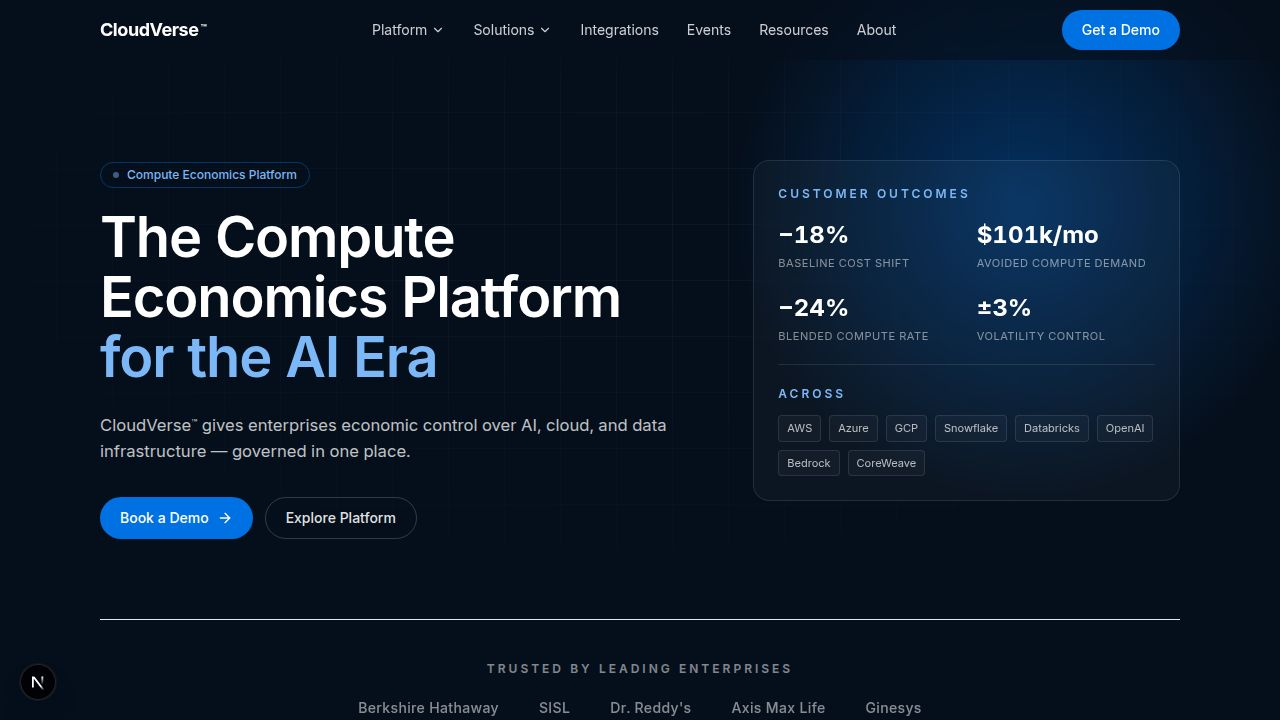
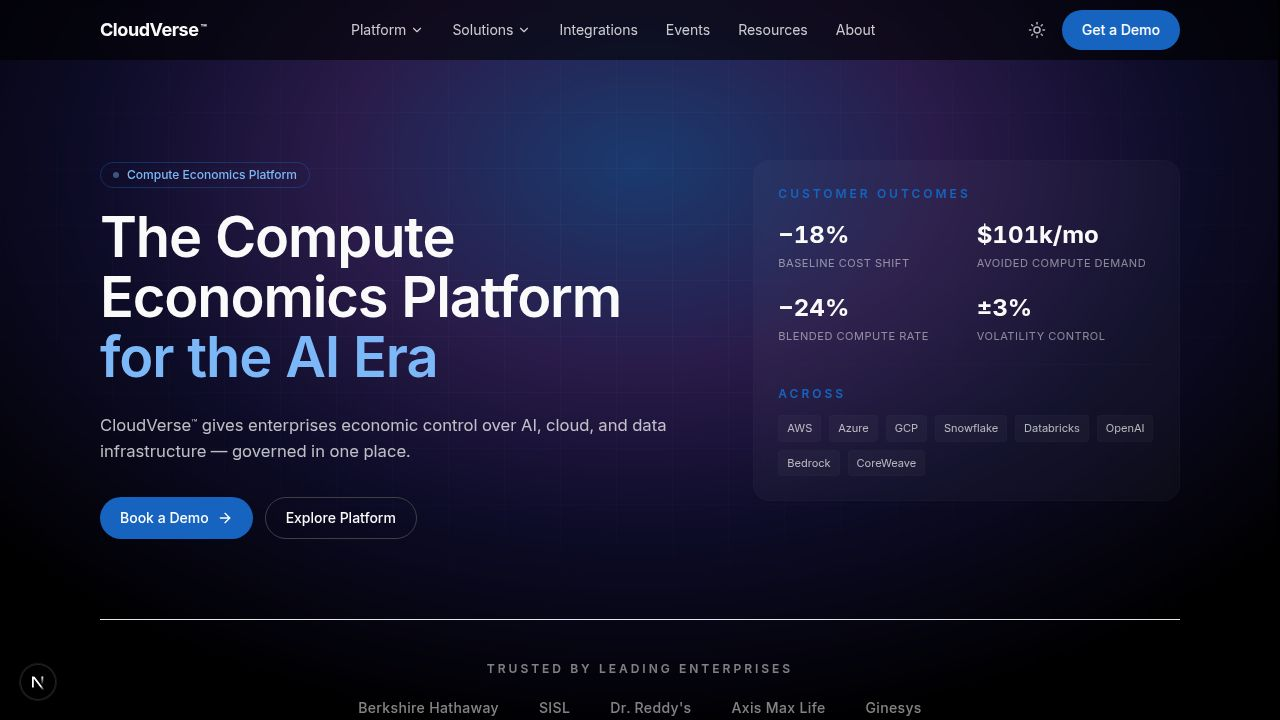
Restore the original color palette and hero gradient animation
Update CSS variables and Tailwind configuration to match the legacy color scheme, including restoring the original brand blue and implementing the animated hero gradient.

Replit-Commit-Author: Agent
Replit-Commit-Session-Id: abc5bffa-7bc3-4942-b97e-5bf68d11328f
Replit-Commit-Checkpoint-Type: full_checkpoint
Replit-Commit-Event-Id: bd9f52ed-f82a-4625-987e-a51457d56adb
Replit-Commit-Screenshot-Url: https://storage.googleapis.com/screenshot-production-us-central1/d8dacd2f-b214-4560-9121-caa3bb9575fb/abc5bffa-7bc3-4942-b97e-5bf68d11328f/lLYykBI
Replit-Helium-Checkpoint-Created: true

diff --git a/app/globals.css b/app/globals.css
@@ -14,13 +14,13 @@
     --cv-grid:     240 5% 12% / 0.05;
   }
 
-  /* Dark theme — pure black surfaces (legacy) */
+  /* Dark theme — Apple Developer dark palette (legacy) */
   .dark {
     --cv-ink:      0 0% 98%;     /* #f5f5f7 */
     --cv-muted:    240 2% 63%;   /* #a1a1a6 */
-    --cv-line:     0 0% 16%;     /* #292929 */
+    --cv-line:     240 5% 26%;   /* #38383a */
     --cv-surface:  0 0% 0%;      /* #000000 — pure black */
-    --cv-surface2: 0 0% 4%;      /* #0a0a0a */
+    --cv-surface2: 240 4% 11%;   /* #1c1c1e */
     --cv-hero-glow: 211 100% 50% / 0.35;
     --cv-grid:     0 0% 100% / 0.04;
   }
@@ -35,7 +35,7 @@
   }
 
   ::selection {
-    background: rgba(0, 113, 227, 0.35);
+    background: rgba(22, 100, 192, 0.35);
     color: #fff;
   }
 }
@@ -113,21 +113,43 @@
   .cv-hero-bg::after {
     content: "";
     position: absolute;
-    top: -10%;
-    right: -10%;
-    width: 60%;
-    height: 70%;
-    background: radial-gradient(circle, hsl(var(--cv-hero-glow)) 0%, transparent 60%);
+    inset: 0;
+    background: radial-gradient(
+      ellipse 1200px 800px at 50% 20%,
+      rgba(59, 130, 246, 0.45) 0%,
+      rgba(139, 92, 246, 0.30) 25%,
+      rgba(79, 70, 229, 0.18) 45%,
+      transparent 72%
+    );
     pointer-events: none;
+    animation: heroGradientShift 24s ease-in-out infinite;
+  }
+  :root:not(.dark) .cv-hero-bg::after {
+    background: radial-gradient(
+      ellipse 1200px 800px at 50% 20%,
+      rgba(22, 100, 192, 0.18) 0%,
+      rgba(105, 84, 212, 0.12) 30%,
+      rgba(124, 184, 248, 0.08) 55%,
+      transparent 75%
+    );
+  }
+  @keyframes heroGradientShift {
+    0%,100% { filter: brightness(1); transform: translate(0, 0); }
+    25%     { filter: brightness(1.1); transform: translate(-40px, -30px); }
+    50%     { filter: brightness(1); transform: translate(0, 0); }
+    75%     { filter: brightness(1.1); transform: translate(40px, -30px); }
+  }
+  @media (prefers-reduced-motion: reduce) {
+    .cv-hero-bg::after { animation: none; }
   }
 
   /* Buttons */
   .cv-btn-primary {
     @apply inline-flex items-center justify-center gap-2 px-5 py-2.5 rounded-full font-medium text-sm transition-colors;
-    background: #0071E3;
+    background: #1664C0;
     color: #fff;
   }
-  .cv-btn-primary:hover { background: #0A84FF; }
+  .cv-btn-primary:hover { background: #2277E0; }
 
   .cv-btn-ghost {
     @apply inline-flex items-center justify-center gap-2 px-5 py-2.5 rounded-full font-medium text-sm transition-colors text-cv-ink;
@@ -138,7 +160,7 @@
 
   .cv-section-break {
     height: 1px;
-    background: linear-gradient(90deg, transparent, rgba(0, 113, 227, 0.4), transparent);
+    background: linear-gradient(90deg, transparent, rgba(22, 100, 192, 0.4), transparent);
   }
 
   .logo-pill {

diff --git a/tailwind.config.ts b/tailwind.config.ts
@@ -22,9 +22,8 @@ const config: Config = {
           surface: "hsl(var(--cv-surface))",
           surface2: "hsl(var(--cv-surface2))",
           navy: "#050F1C",
-          // Apple-style primary blue from the older site
-          blue: "#0071E3",
-          "blue-bright": "#0A84FF",
+          blue: "#1664C0",
+          "blue-bright": "#2277E0",
           "blue-light": "#7CB8F8",
           "blue-fill": "#E8F3FF",
           // Module accents (kept)
